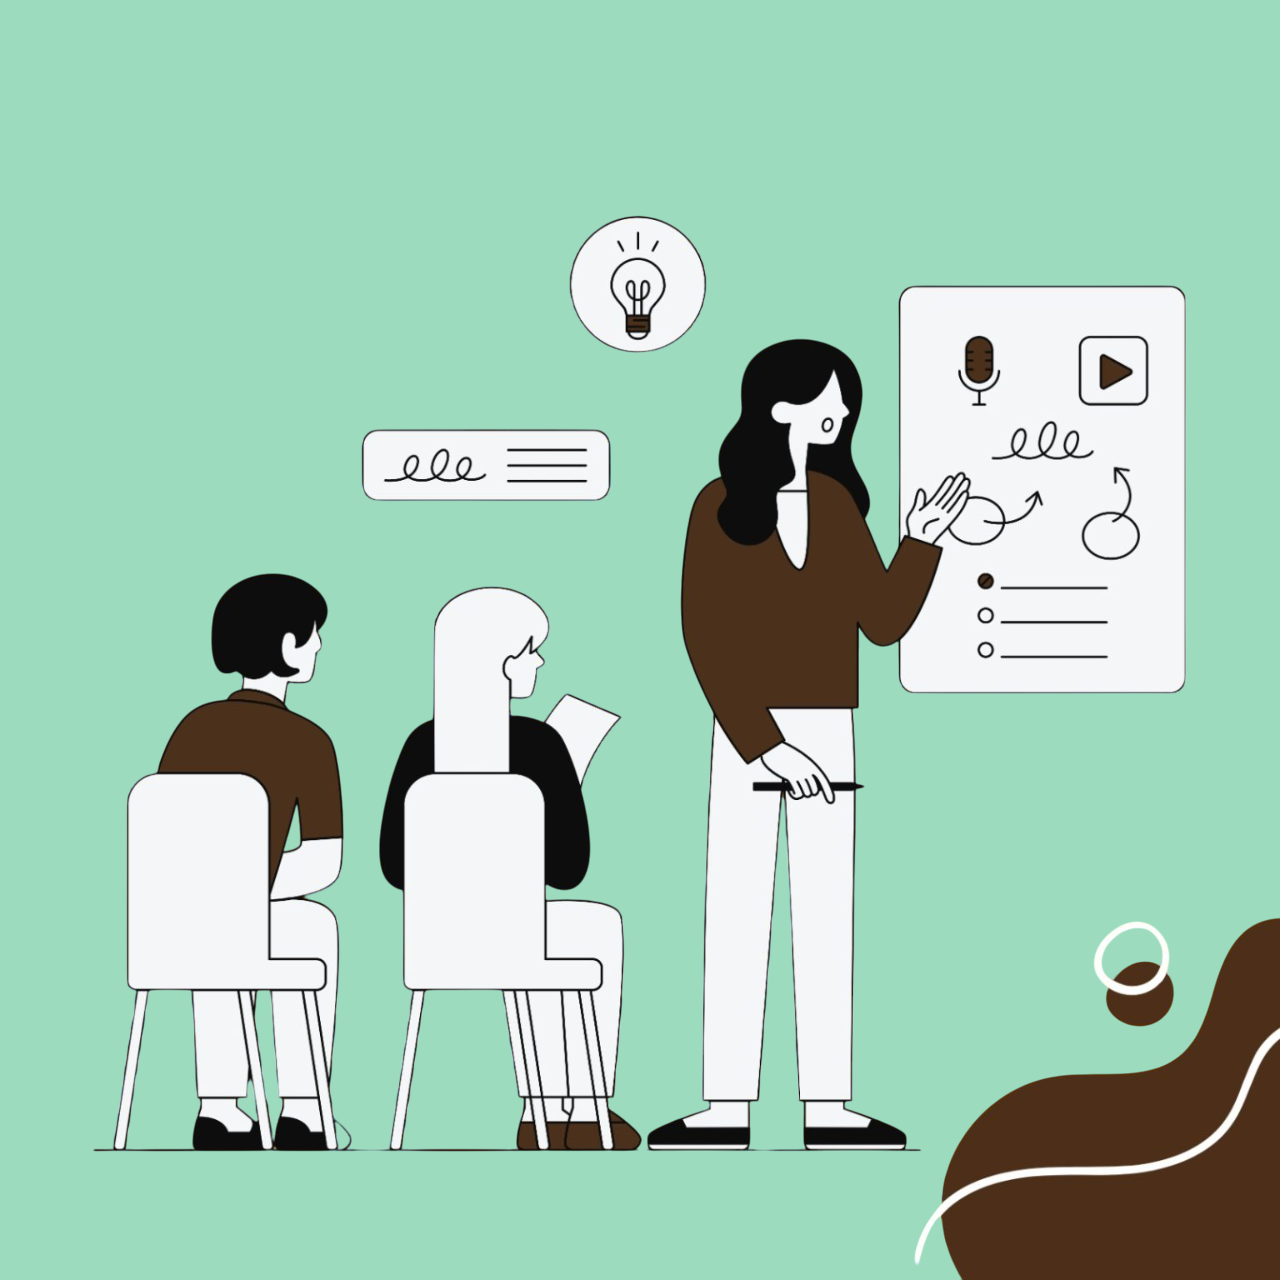
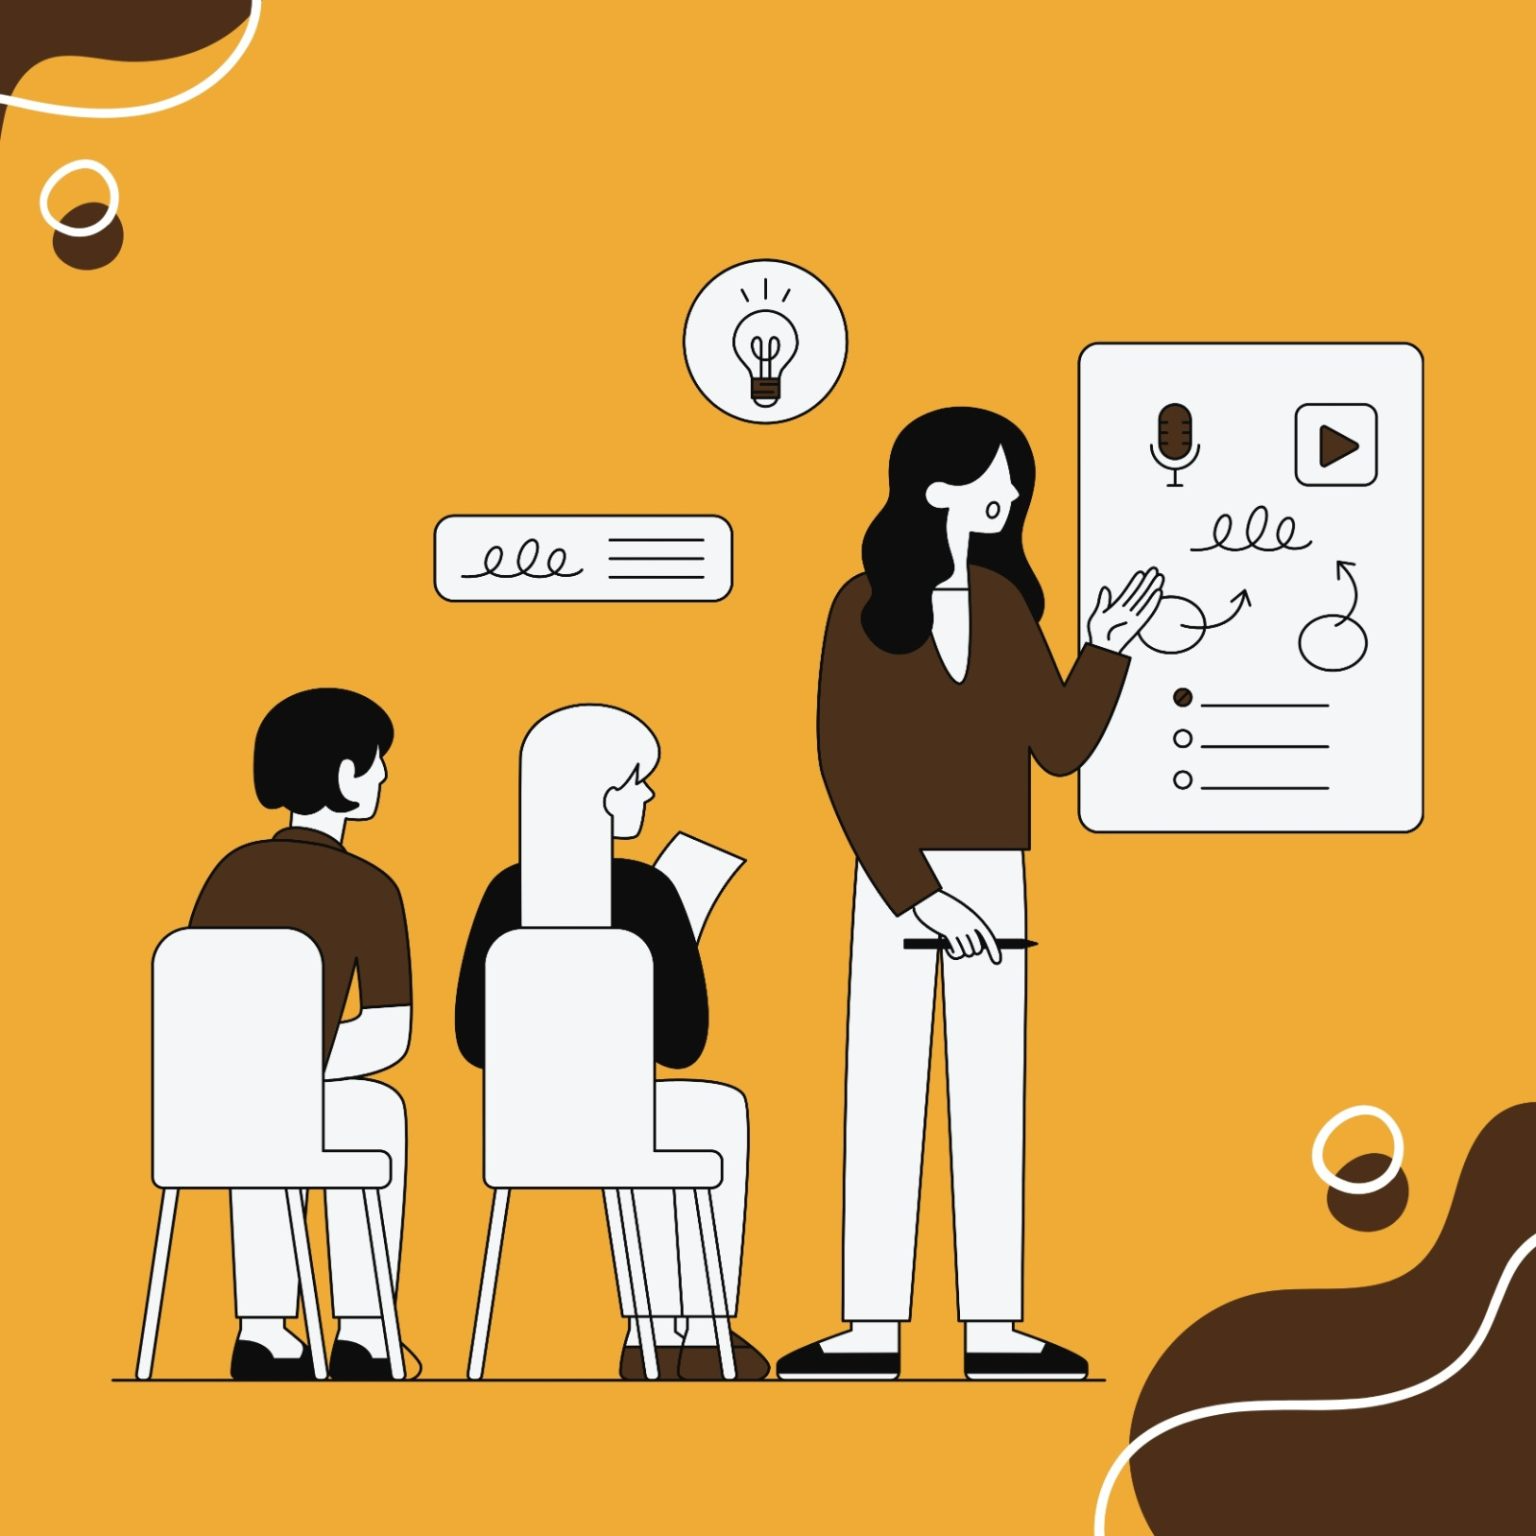
images

diff --git a/css/style.css b/css/style.css
@@ -215,7 +215,7 @@ p:last-child {
   padding-bottom: 0;
 }
 p a {
-  color: #00203FFF;
+  color: #55371d;
   text-decoration: underline;
 }
 a,
@@ -352,7 +352,7 @@ button,
 input[type="submit"],
 input[type="button"],
 input[type="reset"] {
-  background-color: #00203FFF;
+  background-color: #55371d;
   border: 0;
   color: #fff;
   cursor: pointer;
@@ -474,8 +474,8 @@ input[type="reset"]:hover {
 .btn {
   font-size: 18px;
   color: #fff;
-  background-color: #00203FFF;
-  border: 6px solid #00203FFF;
+  background-color: #55371d;
+  border: 6px solid #55371d;
   font-weight: 500;
   border-radius: 50px;
   padding: 6px 0px 6px 26px;
@@ -514,7 +514,7 @@ input[type="reset"]:hover {
   width: 43px;
   height: 43px;
   background-color: #fff;
-  color: #00203FFF;
+  color: #55371d;
   display: flex;
   align-items: center;
   justify-content: center;
@@ -525,7 +525,7 @@ input[type="reset"]:hover {
   transition: all 0.5s ease 0s;
 }
 .btn:hover span {
-  color: #00203FFF;
+  color: #55371d;
   transition: all 0.5s ease 0s;
 }
 .btn:hover:before {
@@ -1044,7 +1044,7 @@ nav li button {
 .main_header {
   display: inline-block;
   width: 100%;
-  border-top: 8px solid #ADEFD1FF;
+  border-top: 8px solid #f5b43e;
   padding: 15px 0;
 }
 .main_header .d_flex_div > div {
@@ -1066,7 +1066,7 @@ nav li button {
 }
 .h_nav_bar {
   display: block;
-  background-color: #00203FFF;
+  background-color: #55371d;
   padding: 18px 0;
 }
 .h_nav {
@@ -1087,7 +1087,7 @@ nav li button {
   transition: all 0.5s ease 0s;
 }
 .h_nav li a:hover {
-  color: #ADEFD1FF;
+  color: #f5b43e;
   transition: all 0.5s ease 0s;
 }
 .h_nav li a:before {
@@ -1095,7 +1095,7 @@ nav li button {
   display: inline-block;
   width: 0%;
   height: 2px;
-  background-color: #ADEFD1FF;
+  background-color: #f5b43e;
   position: absolute;
   bottom: 0;
   transition: all 0.5s ease 0s;
@@ -1151,7 +1151,7 @@ nav li button {
   font-size: 100%;
 }
 .h_nav li .sub-menu li a:hover {
-  color: #ADEFD1FF;
+  color: #f5b43e;
 }
 .slide_nav {
   display: none;
@@ -1162,7 +1162,7 @@ nav li button {
   display: inline-block;
   width: 100%;
   background-image: url(images/banner_bg.png);
-  background-color: #ADEFD1FF;
+  background-color: #f5b43e;
   background-repeat: no-repeat;
   background-size: cover;
   background-position: center center;
@@ -1178,7 +1178,7 @@ nav li button {
   margin-bottom: 30px;
 }
 .banner_text h1 strong {
-  color: #00203FFF;
+  color: #55371d;
 }
 .banner_form {
   width: 39%;
@@ -1206,7 +1206,7 @@ nav li button {
 .banner_form ul li input[type="submit"] {
   border: 0;
   width: auto;
-  background-color: #00203FFF;
+  background-color: #55371d;
   letter-spacing: 0.4px;
   font-size: 16px;
   font-weight: 500;
@@ -1218,7 +1218,7 @@ nav li button {
 .smallbanner {
   display: inline-block;
   width: 100%;
-  background-color: #ADEFD1FF;
+  background-color: #f5b43e;
 }
 .smallbanner p {
   font-size: 14px;
@@ -1258,7 +1258,7 @@ nav li button {
 .contentbar p {
 }
 .contentbar a {
-  color: #00203FFF;
+  color: #55371d;
   text-decoration: underline;
 }
 .contentbar li {
@@ -1287,7 +1287,7 @@ nav li button {
 }
 .brands_bar:before {
   content: "";
-  background-color: #00203FFF;
+  background-color: #55371d;
   display: inline-block;
   width: 190px;
   height: 100%;
@@ -1348,7 +1348,7 @@ nav li button {
 }
 .img_content_bar .img_box:before {
   content: "";
-  background-color: #00203FFF;
+  background-color: #55371d;
   width: 130px;
   height: 130px;
   display: inline-block;
@@ -1370,7 +1370,7 @@ nav li button {
 .img_content_bar .img_box .experience {
   font-size: 20px;
   color: #fff;
-  background-color: #00203FFF;
+  background-color: #55371d;
   padding: 10px 30px;
   position: absolute;
   bottom: 0;
@@ -1406,11 +1406,11 @@ nav li button {
 }
 .projects_item_bar .item h2 {
   font-size: 52px;
-  color: #00203FFF;
+  color: #55371d;
   line-height: 52px;
 }
 .projects_item_bar .item:nth-child(2n) h2 {
-  color: #ADEFD1FF;
+  color: #f5b43e;
 }
 .projects_item_bar .item p {
   font-size: 16px;
@@ -1432,7 +1432,7 @@ nav li button {
 }
 .img_sticky_contentbar .wrapper_box:nth-child(2n) {
   flex-direction: row-reverse;
-  background-color: #00203FFF;
+  background-color: #55371d;
 }
 .img_sticky_contentbar .wrapper_box:nth-child(2n) .text_box p,
 .img_sticky_contentbar .wrapper_box:nth-child(2n) .text_box h2 {
@@ -1473,7 +1473,7 @@ nav li button {
   display: inline-block;
   width: 100%;
   background-image: url(images/banner_bg.png);
-  background-color: #ADEFD1FF;
+  background-color: #f5b43e;
   background-repeat: no-repeat;
   background-size: cover;
   background-position: center center;
@@ -1521,7 +1521,7 @@ nav li button {
 }
 .img_content_box .img_box:before {
   content: "";
-  background-color: #00203FFF;
+  background-color: #55371d;
   width: 90%;
   height: 90%;
   display: inline-block;
@@ -1570,7 +1570,7 @@ nav li button {
   margin: 0 -2px 0 18px;
 }
 .img_content_box .content .btn:hover:after {
-  color: #00203FFF;
+  color: #55371d;
 }
 .service_widget_bar .service_wrapper_bar:nth-child(2) .img_content_box {
   flex-direction: row-reverse;
@@ -1631,7 +1631,7 @@ nav li button {
 }
 .blog_wrapper_bar .item_bar .text .date {
   font-size: 16px;
-  color: #00203FFF;
+  color: #55371d;
   font-weight: 600;
   padding-bottom: 15px;
 }
@@ -1643,7 +1643,7 @@ nav li button {
   border-radius: 6px;
   font-size: 14px;
   padding: 2px 14px;
-  border: 3px solid #00203FFF;
+  border: 3px solid #55371d;
 }
 .blog_wrapper_bar .item_bar .text .btn:before {
   border-radius: 4px;
@@ -1666,7 +1666,7 @@ nav li button {
 .touch_bar .column_boxes .touch_box {
   display: inline-block;
   width: 49%;
-  background-color: #00203FFF;
+  background-color: #55371d;
   padding: 60px 50px;
 }
 .touch_bar .column_boxes .touch_box div {
@@ -1757,7 +1757,7 @@ nav li button {
   bottom: 20px;
   right: 20px;
   padding: 8px 16px;
-  background-color: #00203FFF;
+  background-color: #55371d;
   color: white;
   border: none;
   border-radius: 100%;
@@ -1779,7 +1779,7 @@ nav li button {
 .copyright {
   display: inline-block;
   width: 100%;
-  background-color: #00203FFF;
+  background-color: #55371d;
   padding: 20px 0;
 }
 .copyright p {
@@ -1883,7 +1883,7 @@ nav li button {
   border-radius: 6px;
   font-size: 14px;
   padding: 2px 14px;
-  border: 3px solid #00203FFF;
+  border: 3px solid #55371d;
 }
 .blogpage_widgetbar .blog_leftbar .blog_item .text_box .btn:before {
   border-radius: 4px;
@@ -1911,7 +1911,7 @@ nav li button {
 }
 .blog_rightbar .sidebar_form h4 {
   margin-bottom: 20px;
-  background-color: #00203FFF;
+  background-color: #55371d;
   padding: 10px 20px;
   color: #fff;
 }
@@ -2027,7 +2027,7 @@ nav li button {
 }
 .blog_rightbar .quick_links h4 {
   margin-bottom: 20px;
-  background-color: #00203FFF;
+  background-color: #55371d;
   padding: 10px 20px;
   color: #fff;
 }
@@ -2699,7 +2699,7 @@ body.comment-author-highlight .bypostauthor .comment-author .avatar {
   .menu_icon span:before {
     width: 40px;
     height: 3px;
-    background-color: #00203FFF;
+    background-color: #55371d;
     display: block;
     border-radius: 2px;
   }
@@ -3144,7 +3144,7 @@ body.comment-author-highlight .bypostauthor .comment-author .avatar {
 	display: inline-block;
     width: 100%;
     background-image: url(images/banner_bg.png);
-    background-color: #ADEFD1FF;
+    background-color: #f5b43e;
     background-repeat: no-repeat;
     background-size: cover;
     background-position: center center;

diff --git a/css/templatemo-topic-listing.css b/css/templatemo-topic-listing.css
@@ -11,15 +11,15 @@ https://templatemo.com/tm-590-topic-listing
 -----------------------------------------*/
 :root {
   --white-color:                  #ffffff;
-  --primary-color:                #ADEFD1FF;
-  --secondary-color:              #00203FFF;
+  --primary-color:                #f5b43e;
+  --secondary-color:              #55371d;
   --section-bg-color:             #f0f8ff;
-  --custom-btn-bg-color:          #00203FFF;
-  --custom-btn-bg-hover-color:    #ADEFD1FF;
+  --custom-btn-bg-color:          #55371d;
+  --custom-btn-bg-hover-color:    #f5b43e;
   --dark-color:                   #000000;
   --p-color:                      #717275;
   --border-color:                 #7fffd4;
-  --link-hover-color:             #ADEFD1FF;
+  --link-hover-color:             #f5b43e;
 
   --body-font-family:             'Poppins', sans-serif;
   --title-font-family:            'Montserrat', sans-serif;
@@ -147,7 +147,7 @@ strong {
 }
 
 .section-overlay {
-  background-image: linear-gradient(15deg, #ADEFD1FF 0%, #00203FFF 100%);
+  background-image: linear-gradient(15deg, #f5b43e 0%, #55371d 100%);
   position: absolute;
   top: 0;
   left: 0;
@@ -248,7 +248,7 @@ strong {
   SITE HEADER              
 -----------------------------------------*/
 .site-header {
-  background-image: linear-gradient(15deg, #ADEFD1FF 0%, #00203FFF 100%);
+  background-image: linear-gradient(15deg, #f5b43e 0%, #55371d 100%);
   padding-top: 150px;
   padding-bottom: 80px;
 }
@@ -325,10 +325,10 @@ strong {
 
 .navbar-nav .nav-link.active, 
 .navbar-nav .nav-link:hover {
-  color: #00203FFF;
+  color: #55371d;
 }
 .navbar-brand{
-  color: #00203FFF;
+  color: #55371d;
 }
 
 .navbar .dropdown-menu {
@@ -489,7 +489,7 @@ strong {
   HERO        
 -----------------------------------------*/
 .hero-section {
-  background-image: linear-gradient(15deg, #ADEFD1FF 0%, #00203FFF 100%);
+  background-image: linear-gradient(15deg, #f5b43e 0%, #55371d 100%);
   position: relative;
   overflow: hidden;
   padding-top: 150px;
